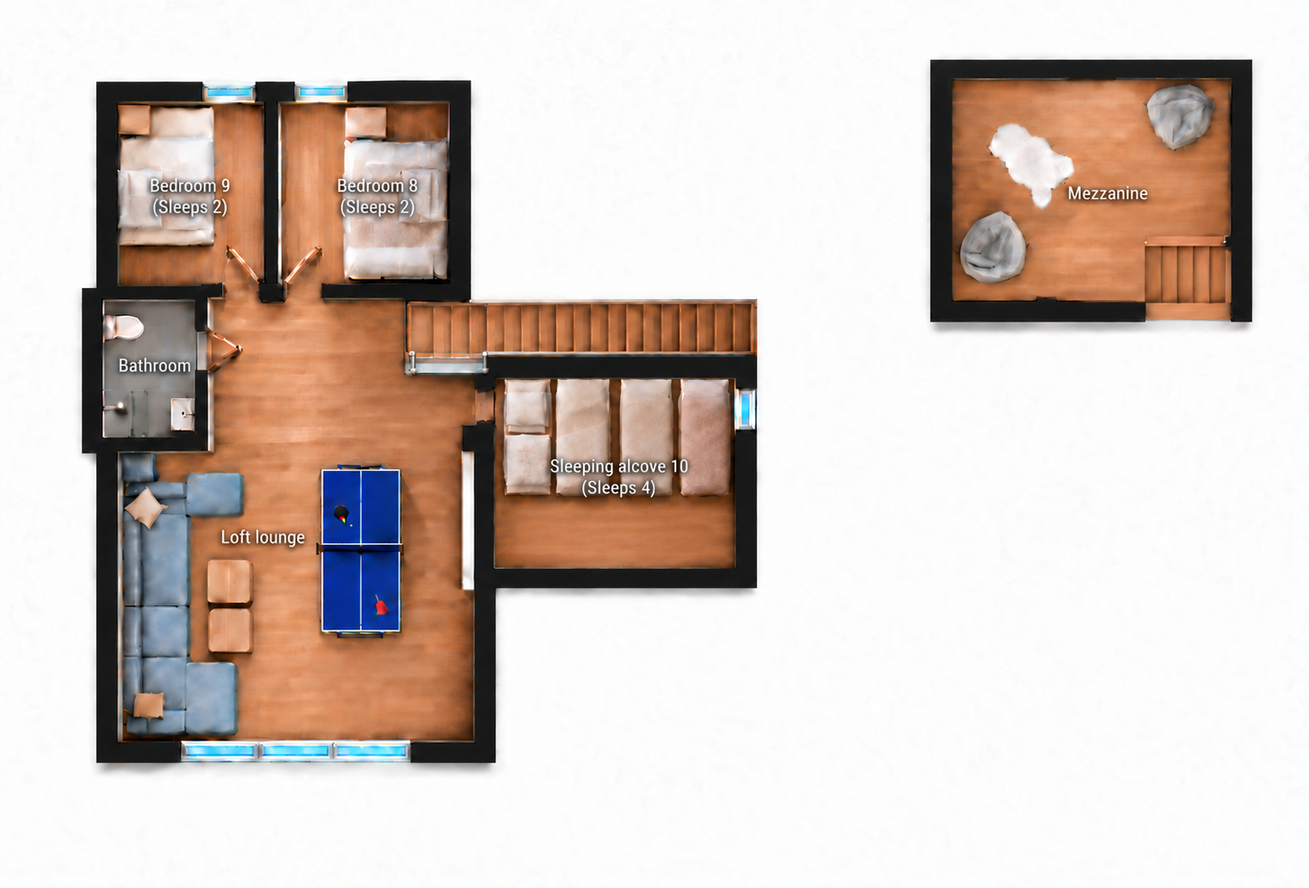
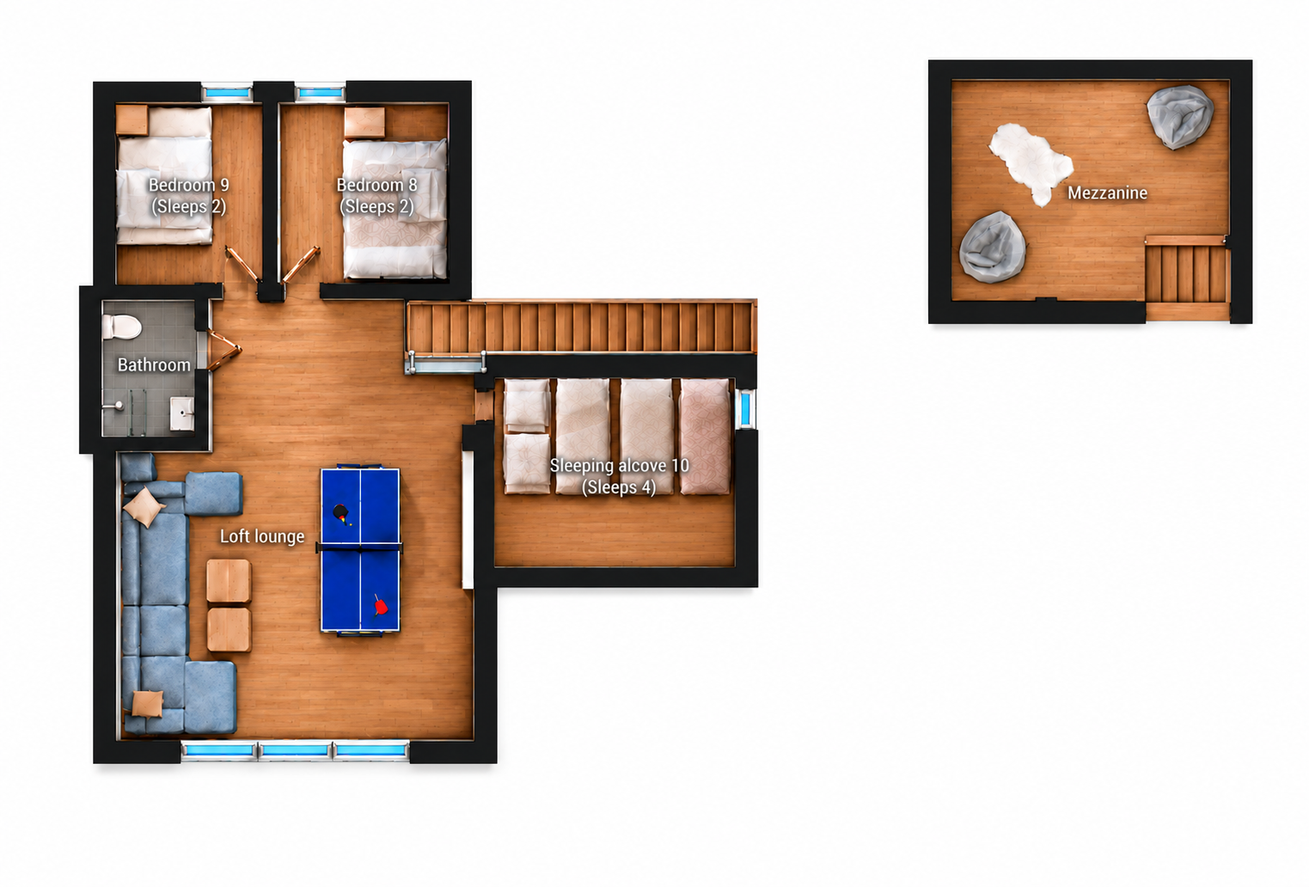
Sharpen floor plans, fit tour preview and simplify page labels

diff --git a/src/components/ConceptPages.tsx b/src/components/ConceptPages.tsx
@@ -691,7 +691,7 @@ export function RetreatDetailPage({ page }: { page: RetreatPageKey }) {
     <>
       <section className={`retreat-detail-story${page === "cabin" ? " retreat-detail-story-cabin" : page === "materials" ? " retreat-detail-story-materials" : ""}`}>
         <div className="retreat-detail-story-image">{page === "meetings" ? <GalleryOriginal photo={organizedPhotos.find(photo => photo.id === "living-01")!} alt={language === "nb" ? "Spisestuen med langbord, håndlagde lamper og fjellutsikt" : "Dining room with a long table, handcrafted pendant lights and mountain views"} nb={language === "nb"} /> : <Image src={page === "cabin" ? cabinLivingSpaceLoftView : page === "materials" ? craftSpruceStaircase : page === "turufjell" ? turufjellSkiRacks : page === "location" ? "/images/gallery-originals/cabin-14.jpg" : image(more.leadPhoto)} alt={page === "cabin" ? (language === "nb" ? "Stue og kjøkken sett fra loftet" : "Living room and kitchen viewed from the loft") : page === "materials" ? (language === "nb" ? "Trapp med heltre gran og glassrekkverk" : "Staircase with solid spruce walls and glass balustrade") : page === "turufjell" ? (language === "nb" ? "Langrennsski ved hytta i vinterlandskap" : "Cross-country skis beside the cabin in winter") : page === "location" ? (language === "nb" ? "Utsikt over Turufjell og fjellene fra skibakken" : "View across Turufjell and the mountains from the ski slope") : ""} fill unoptimized={page === "cabin" || page === "materials" || page === "turufjell" || page === "location"} sizes={page === "cabin" || page === "materials" || page === "turufjell" ? "(max-width: 900px) 100vw, 50vw" : "(max-width: 900px) 100vw, 52vw"} />}</div>
-        <div className="retreat-detail-story-copy"><p>{t.number} · TURU CROWN</p><h2>{more.leadTitle}</h2><span>{more.leadText}</span></div>
+        <div className="retreat-detail-story-copy">{!["cabin", "bedrooms", "turufjell", "location"].includes(page) && <p>{t.number} · TURU CROWN</p>}<h2>{more.leadTitle}</h2><span>{more.leadText}</span></div>
       </section>
       {page === "cabin" && (
         <figure className="retreat-cabin-landscape">
@@ -713,18 +713,18 @@ export function RetreatDetailPage({ page }: { page: RetreatPageKey }) {
             <div className="retreat-bespoke-images">
               <CraftBathroomPhotos language={language} />
             </div>
-            <div className="retreat-bespoke-copy"><span>01</span><h3>{language === "nb" ? "Unike baderomsmøbler i eik" : "Unique oak bathroom furniture"}</h3><p>{language === "nb" ? "Baderomsmøblene er utført i eik og bygget enkeltvis for det rommet de står i. De er ikke hentet fra en fabrikkserie. Hver benk, skuff og detalj er tilpasset materialene, målene og uttrykket i hytta." : "The bathroom furniture is crafted in oak and built individually for each room. Nothing comes from a standard factory range. Every counter, drawer and detail is tailored to the cabin’s dimensions, materials and architectural character."}</p><p>{language === "nb" ? "Treets naturlige spill står i kontrast til mørk stein, sorte armaturer og rene flater. Det gir badene et moderne, eksklusivt uttrykk uten å miste varmen og nærheten til naturen." : "The natural grain contrasts with dark stone, black fittings and clean surfaces, giving the bathrooms a modern, exclusive character while retaining warmth and a close connection to nature."}</p></div>
+            <div className="retreat-bespoke-copy"><h3>{language === "nb" ? "Unike baderomsmøbler i eik" : "Unique oak bathroom furniture"}</h3><p>{language === "nb" ? "Baderomsmøblene er utført i eik og bygget enkeltvis for det rommet de står i. De er ikke hentet fra en fabrikkserie. Hver benk, skuff og detalj er tilpasset materialene, målene og uttrykket i hytta." : "The bathroom furniture is crafted in oak and built individually for each room. Nothing comes from a standard factory range. Every counter, drawer and detail is tailored to the cabin’s dimensions, materials and architectural character."}</p><p>{language === "nb" ? "Treets naturlige spill står i kontrast til mørk stein, sorte armaturer og rene flater. Det gir badene et moderne, eksklusivt uttrykk uten å miste varmen og nærheten til naturen." : "The natural grain contrasts with dark stone, black fittings and clean surfaces, giving the bathrooms a modern, exclusive character while retaining warmth and a close connection to nature."}</p></div>
           </article>
           <article className="retreat-bespoke-feature retreat-bespoke-feature-reverse">
             <div className="retreat-bespoke-images">
               <figure className="retreat-craft-bunks"><Image src="/images/suites-updated/family-bunk-room.webp" alt={language === "nb" ? "Integrerte senger bygget i tre" : "Built-in timber beds"} fill unoptimized sizes="(max-width: 900px) 100vw, 48vw" /></figure>
             </div>
-            <div className="retreat-bespoke-copy"><span>02</span><h3>{language === "nb" ? "Senger integrert i arkitekturen" : "Beds integrated into the architecture"}</h3><p>{language === "nb" ? "Flere av sengene er bygget inn og håndtilpasset på stedet. De følger takvinkler og vegger, utnytter plassen godt og skaper lune, private soner selv når mange gjester bor sammen." : "Many beds are built in and fitted by hand on site. They follow roof angles and walls, make excellent use of space and create sheltered, private zones even when a large group stays together."}</p><p>{language === "nb" ? "De solide trekonstruksjonene gir hvert rom sitt eget særpreg. Sammen med behagelig belysning, myke tekstiler og gjennomtenkt oppbevaring blir soverommene både funksjonelle, moderne og inviterende." : "Solid timber construction gives every room its own identity. Paired with soft lighting, tactile textiles and considered storage, the bedrooms feel functional, modern and inviting."}</p></div>
+            <div className="retreat-bespoke-copy"><h3>{language === "nb" ? "Senger integrert i arkitekturen" : "Beds integrated into the architecture"}</h3><p>{language === "nb" ? "Flere av sengene er bygget inn og håndtilpasset på stedet. De følger takvinkler og vegger, utnytter plassen godt og skaper lune, private soner selv når mange gjester bor sammen." : "Many beds are built in and fitted by hand on site. They follow roof angles and walls, make excellent use of space and create sheltered, private zones even when a large group stays together."}</p><p>{language === "nb" ? "De solide trekonstruksjonene gir hvert rom sitt eget særpreg. Sammen med behagelig belysning, myke tekstiler og gjennomtenkt oppbevaring blir soverommene både funksjonelle, moderne og inviterende." : "Solid timber construction gives every room its own identity. Paired with soft lighting, tactile textiles and considered storage, the bedrooms feel functional, modern and inviting."}</p></div>
           </article>
           <div className="retreat-bespoke-details">
             <article className="retreat-bespoke-detail-row">
               <div>
-                <span>03 · {language === "nb" ? "KJØKKENENE" : "THE KITCHENS"}</span>
+
                 <h3>{language === "nb" ? "To kjøkken i treverk" : "Two timber kitchens"}</h3>
                 <p>{language === "nb" ? "De to kjøkkenene i treverk er tilpasset ulike måter å samles på. Kjøkkenet i underetasjen har også en kjøkkenøy og ligger nær langbordet, slik at alle kan dele måltidet ved både store private samlinger og bedriftssamlinger. I hovedetasjen blir hovedkjøkkenet med sin kjøkkenøy et naturlig midtpunkt for måltider, samtaler og samvær." : "The two timber kitchens are designed for different ways of gathering. The lower-level kitchen also has an island and sits close to the long table, where everyone can share a meal during large private gatherings or company retreats. On the main floor, the principal kitchen and its island form a natural centre for meals, conversation and time together."}</p>
                 <p>{language === "nb" ? "Begge kjøkkenene er utstyrt med eksklusive hvitevarer og to oppvaskmaskiner hver. Gjennomtenkt kapasitet og høy kvalitet gjør det enkelt å samle mange rundt bordet, med mer tid til å nyte måltidet og selskapet." : "Both kitchens feature premium appliances and two dishwashers each. Thoughtful capacity and quality throughout make hosting feel effortless, leaving more time to savour the meal and the company."}</p>
@@ -733,7 +733,7 @@ export function RetreatDetailPage({ page }: { page: RetreatPageKey }) {
             </article>
             <article className="retreat-bespoke-detail-row retreat-bespoke-detail-row-reverse retreat-craft-stairs-row">
               <div>
-                <span>04 · {language === "nb" ? "TRAPPENE" : "THE STAIRCASES"}</span>
+
                 <h3>{language === "nb" ? "Håndlagde trapper i eik" : "Handmade oak staircases"}</h3>
                 <p>{language === "nb" ? "Eiketrappene er spesialtegnet for Turu Crown og tilpasset hyttas rom og nivåer. Treets naturlige årringer og det presise håndverket knytter etasjene sammen og forener fjelltradisjon med et moderne, eksklusivt uttrykk." : "The oak staircases were designed specifically for Turu Crown and tailored to its rooms and levels. Natural grain and precise craftsmanship link the floors, bringing the warmth of mountain tradition into a contemporary, quietly luxurious interior."}</p>
               </div>
@@ -744,7 +744,7 @@ export function RetreatDetailPage({ page }: { page: RetreatPageKey }) {
             </article>
             <article className="retreat-bespoke-detail-row">
               <div>
-                <span>05 · {language === "nb" ? "PEISENE" : "THE FIREPLACES"}</span>
+
                 <h3>{language === "nb" ? "To glasspeiser. Én varm atmosfære." : "Two glass-fronted fireplaces. One warm atmosphere."}</h3>
                 <p>{language === "nb" ? "Turu Crown har to glasspeiser – én ved langbordet i underetasjen og én i stuen på hovedetasjen. Begge kan nytes samtidig, slik at varmen og gløden følger huset gjennom hele oppholdet, enten dagen samles rundt et måltid eller fortsetter i sofakroken med utsikt mot fjellet." : "Turu Crown has two glass-fronted fireplaces – one beside the long table downstairs and one in the main-floor living room. Both can be enjoyed at the same time, allowing warmth and firelight to accompany the house throughout the stay, whether the group is gathered around a meal or relaxing in the sitting room with views of the mountains."}</p>
                 <p>{language === "nb" ? "Peisene er utformet med store glassflater som gir flammene et rent og moderne uttrykk. Begge er bygget av lokal stein, som gir rommene en varm og innbydende atmosfære og en naturlig tilknytning til fjellandskapet. Resultatet er en gjennomført balanse mellom moderne luksus og en ekte, tradisjonell hyttefølelse." : "Designed with generous glass panels, the fireplaces give the flames a clean, contemporary presence. Both are built from local stone, creating a warm, inviting atmosphere and a natural connection to the mountain landscape. The result is a considered balance of modern luxury and an authentic, traditional cabin feeling."}</p>
@@ -761,7 +761,7 @@ export function RetreatDetailPage({ page }: { page: RetreatPageKey }) {
           <div className="retreat-meeting-equipment-copy"><p>TURU CROWN · TURUFJELL</p><h2>{more.pointsTitle}</h2><ul>{[language === "nb" ? "Projektor" : "Projector", ...more.points].map((point, index) => <li key={point}><span>0{index + 1}</span>{point}</li>)}</ul></div>
           <figure><Image src="/images/meetings-updated/projector-long-table-original.jpg" alt={language === "nb" ? "Langbord med projektor og lerret i Turu Crown" : "Turu Crown meeting table with projector and presentation screen"} fill unoptimized sizes="(max-width: 900px) 100vw, 50vw" /></figure>
         </section>
-      ) : page !== "turufjell" && <section className="retreat-detail-points"><div><p>TURU CROWN · TURUFJELL</p><h2>{more.pointsTitle}</h2></div><ul>{more.points.map((point, index) => <li key={point}><span>0{index + 1}</span>{point}</li>)}</ul></section>}
+      ) : page !== "turufjell" && <section className="retreat-detail-points"><div>{page !== "location" && <p>TURU CROWN · TURUFJELL</p>}<h2>{more.pointsTitle}</h2></div><ul>{more.points.map((point, index) => <li key={point}><span>0{index + 1}</span>{point}</li>)}</ul></section>}
       {page === "materials" && <section className="retreat-material-oil"><div><p>{language === "nb" ? "OLJEBEIS" : "OIL STAIN"}</p><h2>{language === "nb" ? <>Naturlig beskyttelse.<br />Treet får fortsatt puste.</> : <>Natural protection.<br />The timber still breathes.</>}</h2></div><div>{language === "nb" ? <><p>Overflatene er behandlet med FSC-sertifisert oljebeis basert på naturlige planteoljer og harde vokser. Behandlingen trekker inn i treet og gir en vann- og smussavvisende overflate uten å legge en tett film over materialet.</p><p>Den diffusjonsåpne behandlingen lar treet ta opp og slippe ut fuktighet. Slik bevares det naturlige uttrykket, samtidig som overflaten blir slitesterk, antistatisk og enklere å holde ren.</p></> : <><p>The surfaces are treated with FSC-certified oil stain based on natural plant oils and hard waxes. It penetrates the timber to create a water- and dirt-resistant finish without sealing the material beneath a dense film.</p><p>The breathable finish lets timber absorb and release moisture. Its natural appearance remains intact while the surface becomes durable, antistatic and easier to maintain.</p></>}</div></section>}
       {cabinReviews}
       {cabinComfort}
@@ -891,20 +891,20 @@ export function RetreatDetailPage({ page }: { page: RetreatPageKey }) {
   const bedroomTail = (
     <>
       <section className="retreat-suite-editorial retreat-suite-doubles">
-        <div className="retreat-suite-editorial-copy"><p>01 · {language === "nb" ? "DOBBELTSUITER" : "DOUBLE SUITES"}</p><h2>{language === "nb" ? "Fire elegante dobbeltsuiter" : "Four elegant double suites"}</h2><span>{language === "nb" ? "De fire elegante dobbeltsuitene, inkludert Master Suite, er fordelt over underetasjen, hovedetasjen og loftet. Hver suite gir en rolig plass å trekke seg tilbake til. Premiumsenger og myke tekstiler gir gjennomført komfort, mens tradisjonelt treverk, panel og lyse rom knytter interiøret til fjellandskapet." : "The four elegant double suites, including the Master Suite, are spread across the lower floor, main floor and loft. Each offers a peaceful place to retreat. Premium beds and soft textiles invite deep rest, while traditional timber and panelled walls bring warmth to bright, contemporary rooms."}</span><div className="retreat-suite-detail-line"><b>04</b><small>{language === "nb" ? "DOBBELTSUITER · TRE NIVÅER" : "DOUBLE SUITES · THREE LEVELS"}</small></div></div>
+        <div className="retreat-suite-editorial-copy"><h2>{language === "nb" ? "Fire elegante dobbeltsuiter" : "Four elegant double suites"}</h2><span>{language === "nb" ? "De fire elegante dobbeltsuitene, inkludert Master Suite, er fordelt over underetasjen, hovedetasjen og loftet. Hver suite gir en rolig plass å trekke seg tilbake til. Premiumsenger og myke tekstiler gir gjennomført komfort, mens tradisjonelt treverk, panel og lyse rom knytter interiøret til fjellandskapet." : "The four elegant double suites, including the Master Suite, are spread across the lower floor, main floor and loft. Each offers a peaceful place to retreat. Premium beds and soft textiles invite deep rest, while traditional timber and panelled walls bring warmth to bright, contemporary rooms."}</span></div>
         <div className="retreat-suite-editorial-image"><Image src="/images/suites-updated/lower-floor-double.webp" alt={language === "nb" ? "Dobbeltsuite med varmt treverk" : "Double suite with warm timber"} fill unoptimized sizes="(max-width: 900px) 100vw, 50vw" /></div>
       </section>
       <section className="retreat-suite-editorial retreat-suite-bunks">
         <div className="retreat-suite-editorial-image"><Image src="/images/suites-updated/handcrafted-bunk.webp" alt={language === "nb" ? "Lunt soverom med innebygd køyeseng" : "Inviting bedroom with a built-in bunk bed"} fill unoptimized sizes="(max-width: 900px) 100vw, 50vw" /></div>
-        <div className="retreat-suite-editorial-copy"><p>02 · {language === "nb" ? "KØYESENGER" : "BUNK ROOMS"}</p><h2>{language === "nb" ? "Tre håndlagde køyesenger, bygget inn i rommene" : "Three handcrafted bunk beds, built into the rooms"}</h2><span>{language === "nb" ? "I tre lune soverom er køyesengene håndlaget og integrert i treverket. De følger rommenes linjer og materialer, slik at sengene blir en naturlig del av helheten. Svært komfortable madrasser garanterer en god og eksklusiv nattesøvn. De gjennomtenkte soveplassene gir familie og venner nærhet og et rolig sted å trekke seg tilbake etter en dag ute." : "In three inviting bedrooms, handcrafted bunk beds are integrated into the timberwork. Their lines and materials follow the rooms, making each bed feel like a natural part of the interior. Exceptionally comfortable mattresses guarantee a restful and luxurious night’s sleep. These thoughtfully designed sleeping spaces bring family and friends together after a day in the mountains."}</span><div className="retreat-suite-detail-line"><b>03</b><small>{language === "nb" ? "ROM MED HÅNDLAGDE KØYESENGER" : "ROOMS WITH HANDCRAFTED BUNK BEDS"}</small></div></div>
+        <div className="retreat-suite-editorial-copy"><h2>{language === "nb" ? "Tre håndlagde køyesenger, bygget inn i rommene" : "Three handcrafted bunk beds, built into the rooms"}</h2><span>{language === "nb" ? "I tre lune soverom er køyesengene håndlaget og integrert i treverket. De følger rommenes linjer og materialer, slik at sengene blir en naturlig del av helheten. Svært komfortable madrasser garanterer en god og eksklusiv nattesøvn. De gjennomtenkte soveplassene gir familie og venner nærhet og et rolig sted å trekke seg tilbake etter en dag ute." : "In three inviting bedrooms, handcrafted bunk beds are integrated into the timberwork. Their lines and materials follow the rooms, making each bed feel like a natural part of the interior. Exceptionally comfortable mattresses guarantee a restful and luxurious night’s sleep. These thoughtfully designed sleeping spaces bring family and friends together after a day in the mountains."}</span></div>
       </section>
       <section className="retreat-suite-four">
-        <header><p>03 · {language === "nb" ? "FOR BARN ELLER VOKSNE" : "FOR KIDS OR ADULTS"}</p><h2>{language === "nb" ? <>Fire senger<br />for barn eller voksne</> : <>Four Single Bed Suite<br />for Kids or Adults</>}</h2><span>{language === "nb" ? "To rom med fire sengeplasser hver. De håndlagde køyesengene er bygget inn og tilpasset treverket, slik at sengene blir en naturlig del av rommet. Komfortable madrasser, lyse materialer og moderne detaljer skaper et lunt sted å sove, like fint for barn som for voksne." : "Two rooms with four sleeping places each. Handcrafted bunk beds are built into the timberwork, making them a natural part of each room. Comfortable mattresses, light materials and modern details create a cosy place to rest for children and adults alike."}</span></header>
-        <div className="retreat-suite-four-images"><figure><div><Image src="/images/suites-updated/family-bunk-room.webp" alt={language === "nb" ? "Soverom med fire sengeplasser i to køyesenger" : "Four sleeping places in two bunk beds"} fill unoptimized sizes="(max-width: 900px) 100vw, 50vw" /></div><figcaption>{language === "nb" ? "Rom én" : "Suite one"}</figcaption></figure><figure><div><Image src="/images/suites-updated/twin-bunk-room.webp" alt={language === "nb" ? "Det andre soverommet med fire sengeplasser" : "The second four-bed room"} fill unoptimized sizes="(max-width: 900px) 100vw, 50vw" /></div><figcaption>{language === "nb" ? "Rom to" : "Suite two"}</figcaption></figure></div>
+        <header><h2>{language === "nb" ? <>Fire senger<br />for barn eller voksne</> : <>Four Single Bed Suite<br />for Kids or Adults</>}</h2><span>{language === "nb" ? "To rom med fire sengeplasser hver. De håndlagde køyesengene er bygget inn og tilpasset treverket, slik at sengene blir en naturlig del av rommet. Komfortable madrasser, lyse materialer og moderne detaljer skaper et lunt sted å sove, like fint for barn som for voksne." : "Two rooms with four sleeping places each. Handcrafted bunk beds are built into the timberwork, making them a natural part of each room. Comfortable mattresses, light materials and modern details create a cosy place to rest for children and adults alike."}</span></header>
+        <div className="retreat-suite-four-images"><figure><div><Image src="/images/suites-updated/family-bunk-room.webp" alt={language === "nb" ? "Soverom med fire sengeplasser i to køyesenger" : "Four sleeping places in two bunk beds"} fill unoptimized sizes="(max-width: 900px) 100vw, 50vw" /></div></figure><figure><div><Image src="/images/suites-updated/twin-bunk-room.webp" alt={language === "nb" ? "Det andre soverommet med fire sengeplasser" : "The second four-bed room"} fill unoptimized sizes="(max-width: 900px) 100vw, 50vw" /></div></figure></div>
       </section>
       <section className="retreat-suite-editorial retreat-suite-alcove">
         <div className="retreat-suite-editorial-image"><Image src="/images/suites-updated/loft-alcove.webp" alt={language === "nb" ? "Sovealkove på loftet med fire separate madrasser og varmt treverk" : "Loft sleeping alcove with four separate mattresses and warm timber"} fill unoptimized sizes="(max-width: 900px) 100vw, 60vw" /></div>
-        <div className="retreat-suite-editorial-copy"><p>04 · {language === "nb" ? "SOVEALKOVEN" : "THE SLEEPING ALCOVE"}</p><h2>{language === "nb" ? "Et lunt fristed på loftet" : "A cosy retreat in the loft"}</h2><span>{language === "nb" ? "Den romslige sovealkoven på loftet byr på fire separate soveplasser i en varm og omsluttende atmosfære. Naturlig treverk, takets myke linjer og komfortable madrasser skaper et innbydende sted å finne roen. Den skjermede plasseringen gir en følelse av privatliv, samtidig som familie og venner kan være nær hverandre. Her møter tradisjonell fjellsjarm en diskret, gjennomført luksus – med rom for rolige morgener og avslappende kvelder etter en dag på fjellet." : "The spacious sleeping alcove in the loft offers four separate sleeping places in a warm, enveloping setting. Natural timber, the soft lines of the roof and comfortable mattresses create an inviting place to unwind. Its tucked-away position offers a sense of privacy while keeping family and friends close. Traditional mountain charm meets discreet, considered luxury, with room for unhurried mornings and restful evenings after a day in the mountains."}</span><div className="retreat-suite-detail-line"><b>04</b><small>{language === "nb" ? "SOVEPLASSER · ALKOVE PÅ LOFTET" : "SLEEPING PLACES · LOFT ALCOVE"}</small></div></div>
+        <div className="retreat-suite-editorial-copy"><h2>{language === "nb" ? "Et lunt fristed på loftet" : "A cosy retreat in the loft"}</h2><span>{language === "nb" ? "Den romslige sovealkoven på loftet byr på fire separate soveplasser i en varm og omsluttende atmosfære. Naturlig treverk, takets myke linjer og komfortable madrasser skaper et innbydende sted å finne roen. Den skjermede plasseringen gir en følelse av privatliv, samtidig som familie og venner kan være nær hverandre. Her møter tradisjonell fjellsjarm en diskret, gjennomført luksus – med rom for rolige morgener og avslappende kvelder etter en dag på fjellet." : "The spacious sleeping alcove in the loft offers four separate sleeping places in a warm, enveloping setting. Natural timber, the soft lines of the roof and comfortable mattresses create an inviting place to unwind. Its tucked-away position offers a sense of privacy while keeping family and friends close. Traditional mountain charm meets discreet, considered luxury, with room for unhurried mornings and restful evenings after a day in the mountains."}</span></div>
       </section>
       <section className="retreat-banner-caption"><h2>{language === "nb" ? "Våkne til fjellet" : "Wake up to the mountains"}</h2><div className="retreat-suite-closing-copy"><p>{more.bannerText}</p><p>{language === "nb" ? "Hver suite forener gjennomført komfort med skjønnheten på Turufjell. Etter en dag i skibakken eller ute i fjellet venter lune materialer og myke senger – et rolig sted å lande." : "Every suite pairs considered comfort with the beauty of Turufjell. After a day on the slopes or in the mountains, warm timber and inviting beds offer a quiet place to unwind."}</p></div></section>
       <RetreatBookingFooter language={language} omitHeadingPeriod />
@@ -1002,7 +1002,7 @@ export function RetreatDetailPage({ page }: { page: RetreatPageKey }) {
       {gatheringTypes}
       {page !== "meetings" && <main className={`retreat-detail${page === "materials" ? " retreat-detail-materials" : page === "turufjell" ? " retreat-detail-turufjell" : page === "location" ? " retreat-detail-location" : ""}`}>
         <div className="retreat-detail-image"><Image src={page === "cabin" ? cabinLivingSpace : page === "bedrooms" ? suitesIntroduction : page === "materials" ? craftTimberHallway : page === "turufjell" ? turufjellWinterAerial : page === "location" ? locationNorthernLights : image(t.photo)} alt={page === "cabin" ? (language === "nb" ? "Teleskop foran panoramavinduet med utsikt mot snødekte fjell" : "Telescope by the panoramic window overlooking snowy mountains") : page === "materials" ? (language === "nb" ? "Gang med naturlig treverk og håndlagde detaljer" : "Hallway with natural timber and handcrafted details") : page === "turufjell" ? (language === "nb" ? "Flyfoto av snødekte Turufjell med hytter, skiløyper og fjellandskapet rundt" : "Aerial photograph of snowy Turufjell, cabins, ski trails and surrounding mountains") : page === "location" ? (language === "nb" ? "Turu Crown under nordlyset på Turufjell" : "Turu Crown beneath the northern lights at Turufjell") : t.alt} fill unoptimized={page === "cabin" || page === "bedrooms" || page === "materials" || page === "turufjell" || page === "location"} priority={page !== "cabin"} sizes={page === "turufjell" || page === "location" ? "100vw" : page === "cabin" || page === "materials" ? "(max-width: 900px) 100vw, 50vw" : "(max-width: 900px) 100vw, 58vw"} /></div>
-        <div className="retreat-detail-copy"><p>{page === "bedrooms" ? (language === "nb" ? "02 · ROM" : "02 · ROOMS") : t.number}</p>{page === "cabin" ? <h2>{t.title.split("\n").map((line) => <span key={line}>{line}</span>)}</h2> : <h1>{t.title.split("\n").map((line) => <span key={line}>{line}</span>)}</h1>}{page === "bedrooms" && <strong className="retreat-suite-intro">{language === "nb" ? "Raffinert luksus møter tradisjonell fjellsjarm" : "Refined luxury meets timeless mountain charm"}</strong>}<div className="retreat-detail-text"><span>{page === "cabin" ? more.bannerText : t.text}</span><ul>{t.facts.map((fact) => <li key={fact}>{fact}</li>)}</ul></div></div>
+        <div className="retreat-detail-copy">{!["cabin", "bedrooms", "turufjell", "location"].includes(page) && <p>{t.number}</p>}{page === "cabin" ? <h2>{t.title.split("\n").map((line) => <span key={line}>{line}</span>)}</h2> : <h1>{t.title.split("\n").map((line) => <span key={line}>{line}</span>)}</h1>}{page === "bedrooms" && <strong className="retreat-suite-intro">{language === "nb" ? "Raffinert luksus møter tradisjonell fjellsjarm" : "Refined luxury meets timeless mountain charm"}</strong>}<div className="retreat-detail-text"><span>{page === "cabin" ? more.bannerText : t.text}</span><ul>{t.facts.map((fact) => <li key={fact}>{fact}</li>)}</ul></div></div>
       </main>}
       {page === "meetings" && <section className="retreat-meetings-intro">
         <div className="retreat-meetings-intro-copy">

diff --git a/src/app/globals.css b/src/app/globals.css
@@ -1516,6 +1516,17 @@ footer p { margin: 15px 0 0; font-size: 12px; }
   .retreat-floor-plans-selector button { flex-direction: column; align-items: start; gap: .4rem; padding: .9rem .6rem; font-size: .8rem; }
   .retreat-floor-plan-view figcaption { align-items: start; flex-direction: column; }
 }
+@media (min-width: 901px) {
+  .retreat-floor-plans { display: grid; grid-template-rows: auto auto minmax(0, 1fr); gap: 1rem; height: calc(100svh - 108px); padding-block: 1rem; }
+  .retreat-floor-plans-heading { margin-bottom: 0; }
+  .retreat-floor-plans-heading h2 { font-size: clamp(2rem, 3vw, 3rem); }
+  .retreat-floor-plans-selector button { padding-block: .8rem; }
+  .retreat-floor-plan-view { display: flex; flex-direction: column; min-height: 0; }
+  .retreat-floor-plan-view > a { flex: 1; min-height: 0; padding: .5rem; }
+  .retreat-floor-plan-view img { width: 100%; height: 100%; max-height: 100%; object-fit: contain; }
+  .retreat-floor-plan-view figcaption { padding-top: .6rem; }
+  .retreat-floor-plan-view figcaption span { font-size: 1.2rem; }
+}
 .retreat-tour-frame { position: relative; height: min(78svh, 900px); min-height: 620px; overflow: hidden; background: #0e131a; box-shadow: 0 30px 90px rgba(0,0,0,.32); }
 .retreat-tour-frame iframe { width: 100%; height: 100%; border: 0; }
 .retreat-tour-caption { display: flex; align-items: center; justify-content: space-between; padding: 1.5rem .4rem 0; }
@@ -1882,11 +1893,12 @@ footer p { margin: 15px 0 0; font-size: 12px; }
   padding-inline: var(--retreat-page-gutter);
 }
 
-.retreat-detail-page[data-page="gallery"] .retreat-gallery-all-title h1,
-.retreat-detail-page[data-page="tour"] .retreat-tour-intro h1 {
+.retreat-detail-page[data-page="gallery"] .retreat-gallery-all-title h1 {
   font-size: clamp(3.8rem, 7vw, 7.5rem);
   line-height: .94;
 }
+.retreat-detail-page[data-page="tour"] .retreat-tour-intro { padding-block: clamp(2rem, 4vw, 4rem); }
+.retreat-detail-page[data-page="tour"] .retreat-tour-intro h1 { font-size: clamp(2.5rem, 4vw, 4.5rem); line-height: 1.05; letter-spacing: -.04em; }
 
 /* Alternate warm and dark story sections across the editorial pages. */
 .retreat-detail-page[data-page="meetings"] .retreat-gathering-types {
@@ -1934,8 +1946,9 @@ footer p { margin: 15px 0 0; font-size: 12px; }
   background: #17202c;
   color: #fff;
 }
-.retreat-detail-page[data-page="meetings"] .retreat-detail-story-image { min-height: 0; aspect-ratio: 3 / 2; align-self: center; }
+.retreat-detail-page[data-page="meetings"]:not([data-page="cabin"]) .retreat-detail-story-image { min-width: 0; width: 100%; height: auto; min-height: 0; aspect-ratio: 3 / 2; align-self: center; overflow: hidden; }
 .retreat-detail-page[data-page="meetings"] .retreat-detail-story-image img { object-fit: contain; }
+.retreat-detail-page[data-page="meetings"] .retreat-detail-story-copy { min-width: 0; }
 
 .retreat-detail-page[data-page="turufjell"] .retreat-turufjell-about-copy h2,
 .retreat-detail-page[data-page="meetings"] .retreat-detail-story-copy h2 {

diff --git a/docs/floor-plans.md b/docs/floor-plans.md
@@ -1,5 +1,58 @@
 # Three floor plans
 
+## Sharper floor-plan details, 30 October 2026
+
+Used built-in imagegen edit mode on all six language/floor images to restore clearer material texture, furniture edges and lettering while preserving room layout, label wording and sleeping counts. Requested 4K in prompts, but the tool returned native-sized images (roughly1520–1720px wide), so these files must not be described as4K. No deterministic bitmap enlargement was applied. Selected outputs were visually compared with sources; all26lower-floor diningchairs retained. Full-size PNG viewing remains available without image compression.
+
+Desktop presentation now fits the complete selected drawing, floor buttons and full-image link into the first viewport below the header. Verified all three floors at1280×720: the figure bottom is704px, inside the720px viewport. The following walkthrough introduction uses a smaller heading and tighter vertical spacing. Full-image viewing is retained for detailed inspection.
+
+Final workspace assets and generated sources:
+- `public/images/floor-plan-main.png` ← `exec-9eb6f714-6ca4-4082-85a2-c193689f69bd.png`.
+- `public/images/floor-plan-main-en.png` ← `exec-385996b6-84e9-4f56-b129-17bf4319dc95.png`.
+- `public/images/floor-plan-lower.png` ← `exec-4fb9e303-c986-4882-bf6d-1a525d2cffb5.png`.
+- `public/images/floor-plan-lower-en.png` ← `exec-64d6909a-23dd-45a4-8c5c-919139cc4cff.png`.
+- `public/images/floor-plan-loft.png` ← `exec-57e6c1dd-bc4e-4ffd-8fd5-51b99afb9561.png`.
+- `public/images/floor-plan-loft-en.png` ← `exec-059fe8f4-8252-44c5-a4fc-448bb5efaa01.png`.
+
+Final prompt set:
+
+### main
+
+```text
+Use case: precise-object-edit. Asset: high-resolution architectural floor-plan image for website full-size inspection. The supplied image is the sole EDIT TARGET and exact content/layout source. Perform high-fidelity resolution/clarity restoration only: deliver a true HIGH RESOLUTION 4K image, 3840 pixels on long edge, preserving current exact aspect ratio, full white canvas and framing. Render fine crisp wall and window edges, natural detailed wood-grain floors, clear textiles, sharp furniture and clean readable small white narrow regular-weight labels, without oversharpening halos or painterly blur. This is NOT a redesign. Preserve EVERY object, exact wall footprint and room proportions, doors, windows, staircase tread count/direction, bed counts/orientations, fixtures and furniture positions. Preserve ALL text EXACTLY in its current language, wording, spelling, capitalization, numbers, linebreaks, positions and relative size. Increase pixels and clarity, NOT label size relative to plan. Never add, omit or reinterpret any text/room/object. Preserve lighting and palette. Output high-resolution PNG, no crop, no watermark, no new graphics. Main-floor invariants: Bedroom/Soverom5 sleeps2 and6 sleeps3; TWO Hallway/Gang labels and FOUR ceiling annotations (English exact 'Vaulted Ceiling', Norwegian 'åpen himling'); all bathroom/sauna/storage/kitchen/dining/terrace labels preserved.
+```
+
+### main-en
+
+```text
+Use case: precise-object-edit. Asset: high-resolution architectural floor-plan image for website full-size inspection. The supplied image is the sole EDIT TARGET and exact content/layout source. Perform high-fidelity resolution/clarity restoration only: deliver a true HIGH RESOLUTION 4K image, 3840 pixels on long edge, preserving current exact aspect ratio, full white canvas and framing. Render fine crisp wall and window edges, natural detailed wood-grain floors, clear textiles, sharp furniture and clean readable small white narrow regular-weight labels, without oversharpening halos or painterly blur. This is NOT a redesign. Preserve EVERY object, exact wall footprint and room proportions, doors, windows, staircase tread count/direction, bed counts/orientations, fixtures and furniture positions. Preserve ALL text EXACTLY in its current language, wording, spelling, capitalization, numbers, linebreaks, positions and relative size. Increase pixels and clarity, NOT label size relative to plan. Never add, omit or reinterpret any text/room/object. Preserve lighting and palette. Output high-resolution PNG, no crop, no watermark, no new graphics. Main-floor invariants: Bedroom/Soverom5 sleeps2 and6 sleeps3; TWO Hallway/Gang labels and FOUR ceiling annotations (English exact 'Vaulted Ceiling', Norwegian 'åpen himling'); all bathroom/sauna/storage/kitchen/dining/terrace labels preserved.
+```
+
+### lower
+
+```text
+Use case: precise-object-edit. Asset: high-resolution architectural floor-plan image for website full-size inspection. The supplied image is the sole EDIT TARGET and exact content/layout source. Perform high-fidelity resolution/clarity restoration only: deliver a true HIGH RESOLUTION 4K image, 3840 pixels on long edge, preserving current exact aspect ratio, full white canvas and framing. Render fine crisp wall and window edges, natural detailed wood-grain floors, clear textiles, sharp furniture and clean readable small white narrow regular-weight labels, without oversharpening halos or painterly blur. This is NOT a redesign. Preserve EVERY object, exact wall footprint and room proportions, doors, windows, staircase tread count/direction, bed counts/orientations, fixtures and furniture positions. Preserve ALL text EXACTLY in its current language, wording, spelling, capitalization, numbers, linebreaks, positions and relative size. Increase pixels and clarity, NOT label size relative to plan. Never add, omit or reinterpret any text/room/object. Preserve lighting and palette. Output high-resolution PNG, no crop, no watermark, no new graphics. Lower-floor invariants: exactly26diningchairs,12oneachlongside+1eachend; table length/width unchanged. Exactly5bedrooms:1and2sleep3,3sleeps2,4and5sleep4. Two vertical beds in room4 match ivory+taupe bedding design inroom5. Keep two storage rooms(Bod/Storage), two bathrooms,sauna,toilet,utilityroom,hallway,terrace.
+```
+
+### lower-en
+
+```text
+Use case: precise-object-edit. Asset: high-resolution architectural floor-plan image for website full-size inspection. The supplied image is the sole EDIT TARGET and exact content/layout source. Perform high-fidelity resolution/clarity restoration only: deliver a true HIGH RESOLUTION 4K image, 3840 pixels on long edge, preserving current exact aspect ratio, full white canvas and framing. Render fine crisp wall and window edges, natural detailed wood-grain floors, clear textiles, sharp furniture and clean readable small white narrow regular-weight labels, without oversharpening halos or painterly blur. This is NOT a redesign. Preserve EVERY object, exact wall footprint and room proportions, doors, windows, staircase tread count/direction, bed counts/orientations, fixtures and furniture positions. Preserve ALL text EXACTLY in its current language, wording, spelling, capitalization, numbers, linebreaks, positions and relative size. Increase pixels and clarity, NOT label size relative to plan. Never add, omit or reinterpret any text/room/object. Preserve lighting and palette. Output high-resolution PNG, no crop, no watermark, no new graphics. Lower-floor invariants: exactly26diningchairs,12oneachlongside+1eachend; table length/width unchanged. Exactly5bedrooms:1and2sleep3,3sleeps2,4and5sleep4. Two vertical beds in room4 match ivory+taupe bedding design inroom5. Keep two storage rooms(Bod/Storage), two bathrooms,sauna,toilet,utilityroom,hallway,terrace.
+```
+
+### loft
+
+```text
+Use case: precise-object-edit. Asset: high-resolution architectural floor-plan image for website full-size inspection. The supplied image is the sole EDIT TARGET and exact content/layout source. Perform high-fidelity resolution/clarity restoration only: deliver a true HIGH RESOLUTION 4K image, 3840 pixels on long edge, preserving current exact aspect ratio, full white canvas and framing. Render fine crisp wall and window edges, natural detailed wood-grain floors, clear textiles, sharp furniture and clean readable small white narrow regular-weight labels, without oversharpening halos or painterly blur. This is NOT a redesign. Preserve EVERY object, exact wall footprint and room proportions, doors, windows, staircase tread count/direction, bed counts/orientations, fixtures and furniture positions. Preserve ALL text EXACTLY in its current language, wording, spelling, capitalization, numbers, linebreaks, positions and relative size. Increase pixels and clarity, NOT label size relative to plan. Never add, omit or reinterpret any text/room/object. Preserve lighting and palette. Output high-resolution PNG, no crop, no watermark, no new graphics. Loft invariants: bedroom9left and8right eachsleep2; exactly4SHORT mattresses inalcove10 against its UPPER wall with freefloorbelow;2smallcoffee tables with smallgapfromsofa;bluepingpongtable;toplonghorizontalstairwithshortglassrailingandopenentrance;fourwindowgroups;separate upper-right Hems/Mezzanine with2beanbags,whitehideandopenlower-rightstairentrance,verticaltreadlines. Preserve Loftstua/Loft lounge and all room labels.
+```
+
+### loft-en
+
+```text
+Use case: precise-object-edit. Asset: high-resolution architectural floor-plan image for website full-size inspection. The supplied image is the sole EDIT TARGET and exact content/layout source. Perform high-fidelity resolution/clarity restoration only: deliver a true HIGH RESOLUTION 4K image, 3840 pixels on long edge, preserving current exact aspect ratio, full white canvas and framing. Render fine crisp wall and window edges, natural detailed wood-grain floors, clear textiles, sharp furniture and clean readable small white narrow regular-weight labels, without oversharpening halos or painterly blur. This is NOT a redesign. Preserve EVERY object, exact wall footprint and room proportions, doors, windows, staircase tread count/direction, bed counts/orientations, fixtures and furniture positions. Preserve ALL text EXACTLY in its current language, wording, spelling, capitalization, numbers, linebreaks, positions and relative size. Increase pixels and clarity, NOT label size relative to plan. Never add, omit or reinterpret any text/room/object. Preserve lighting and palette. Output high-resolution PNG, no crop, no watermark, no new graphics. Loft invariants: bedroom9left and8right eachsleep2; exactly4SHORT mattresses inalcove10 against its UPPER wall with freefloorbelow;2smallcoffee tables with smallgapfromsofa;bluepingpongtable;toplonghorizontalstairwithshortglassrailingandopenentrance;fourwindowgroups;separate upper-right Hems/Mezzanine with2beanbags,whitehideandopenlower-rightstairentrance,verticaltreadlines. Preserve Loftstua/Loft lounge and all room labels.
+```
+
+
 ## Lower-floor beds, hallway lettering and tour section order, 30 October 2026
 
 Lower-floor bedroom labels use the same font-size reference as Gang/Hallway in the same drawing. Both beds in bedroom4 now use the pale wood frame, ivory bedding, pillows and muted throw design from bedroom5, retaining their two existing vertical footprints and four sleeping places. All room labels, capacities and 26 dining chairs retained. Built-in imagegen edit mode; first font-only drafts rejected because bedroom labels became too large.
